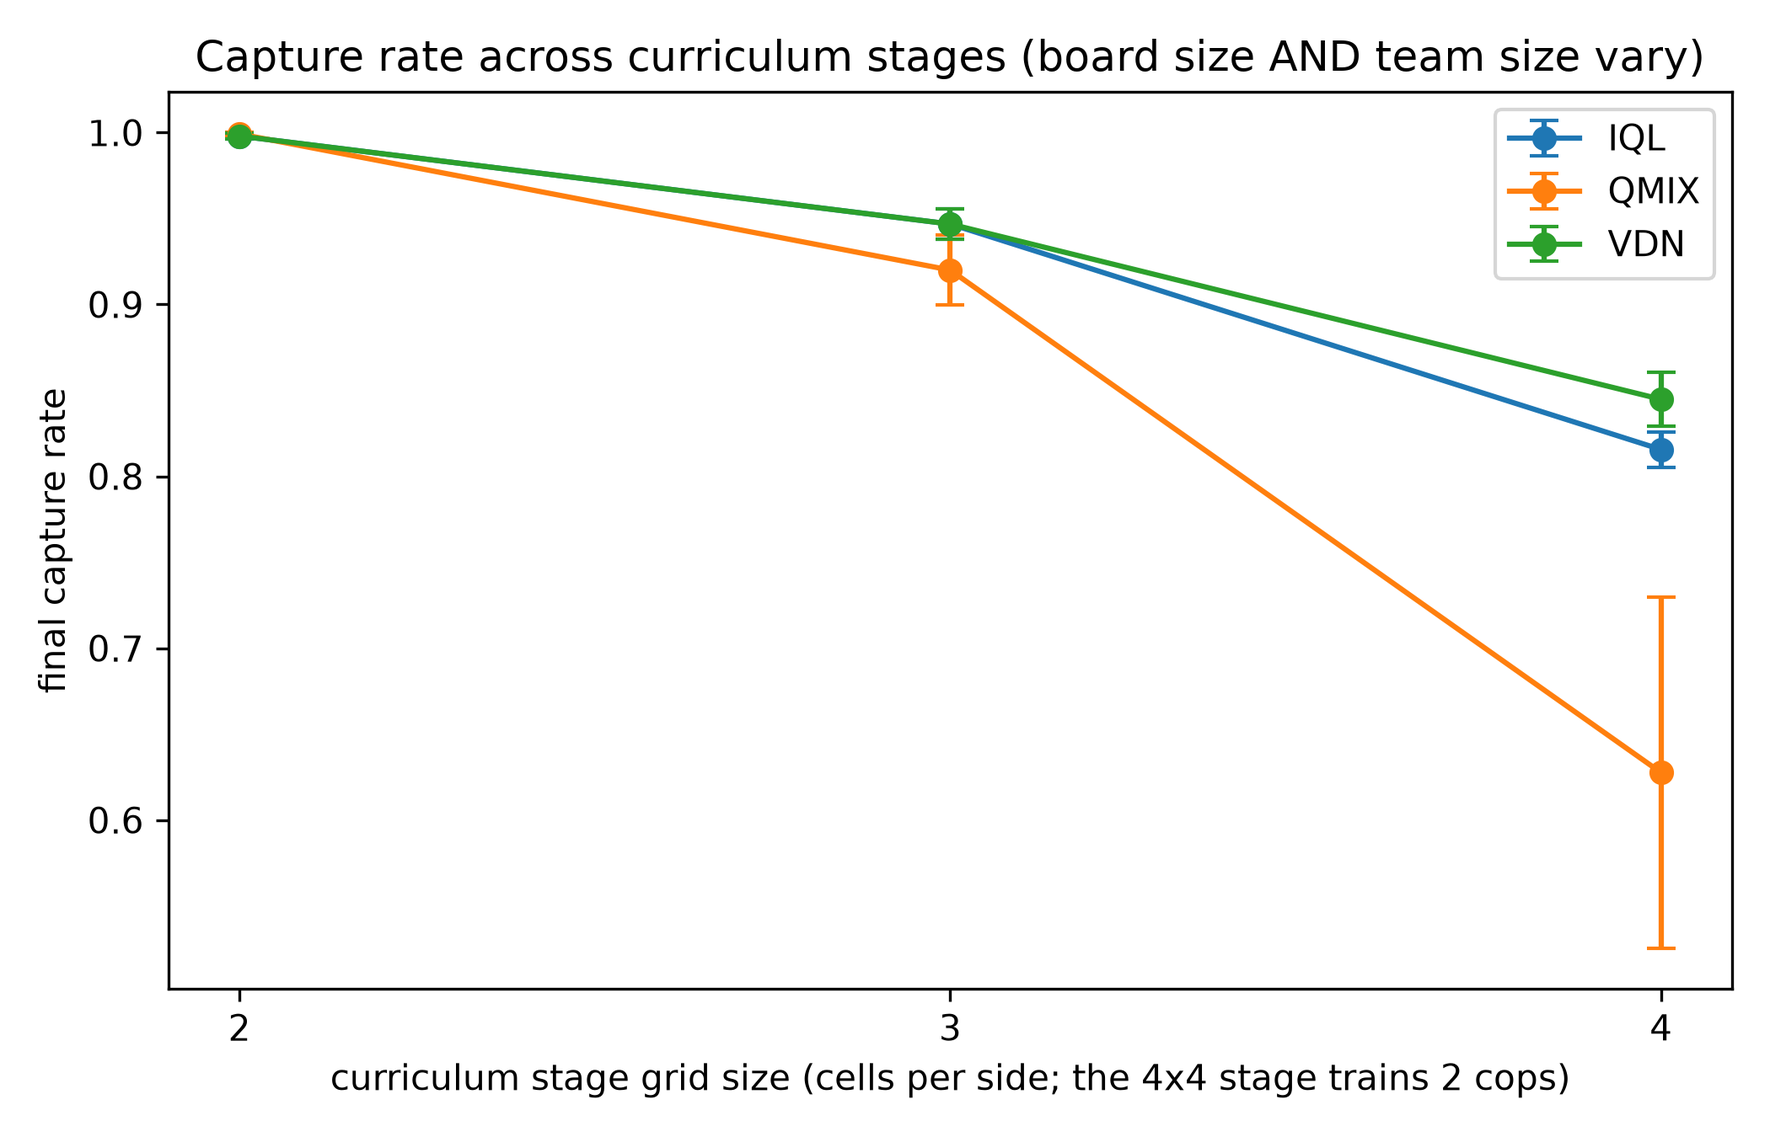
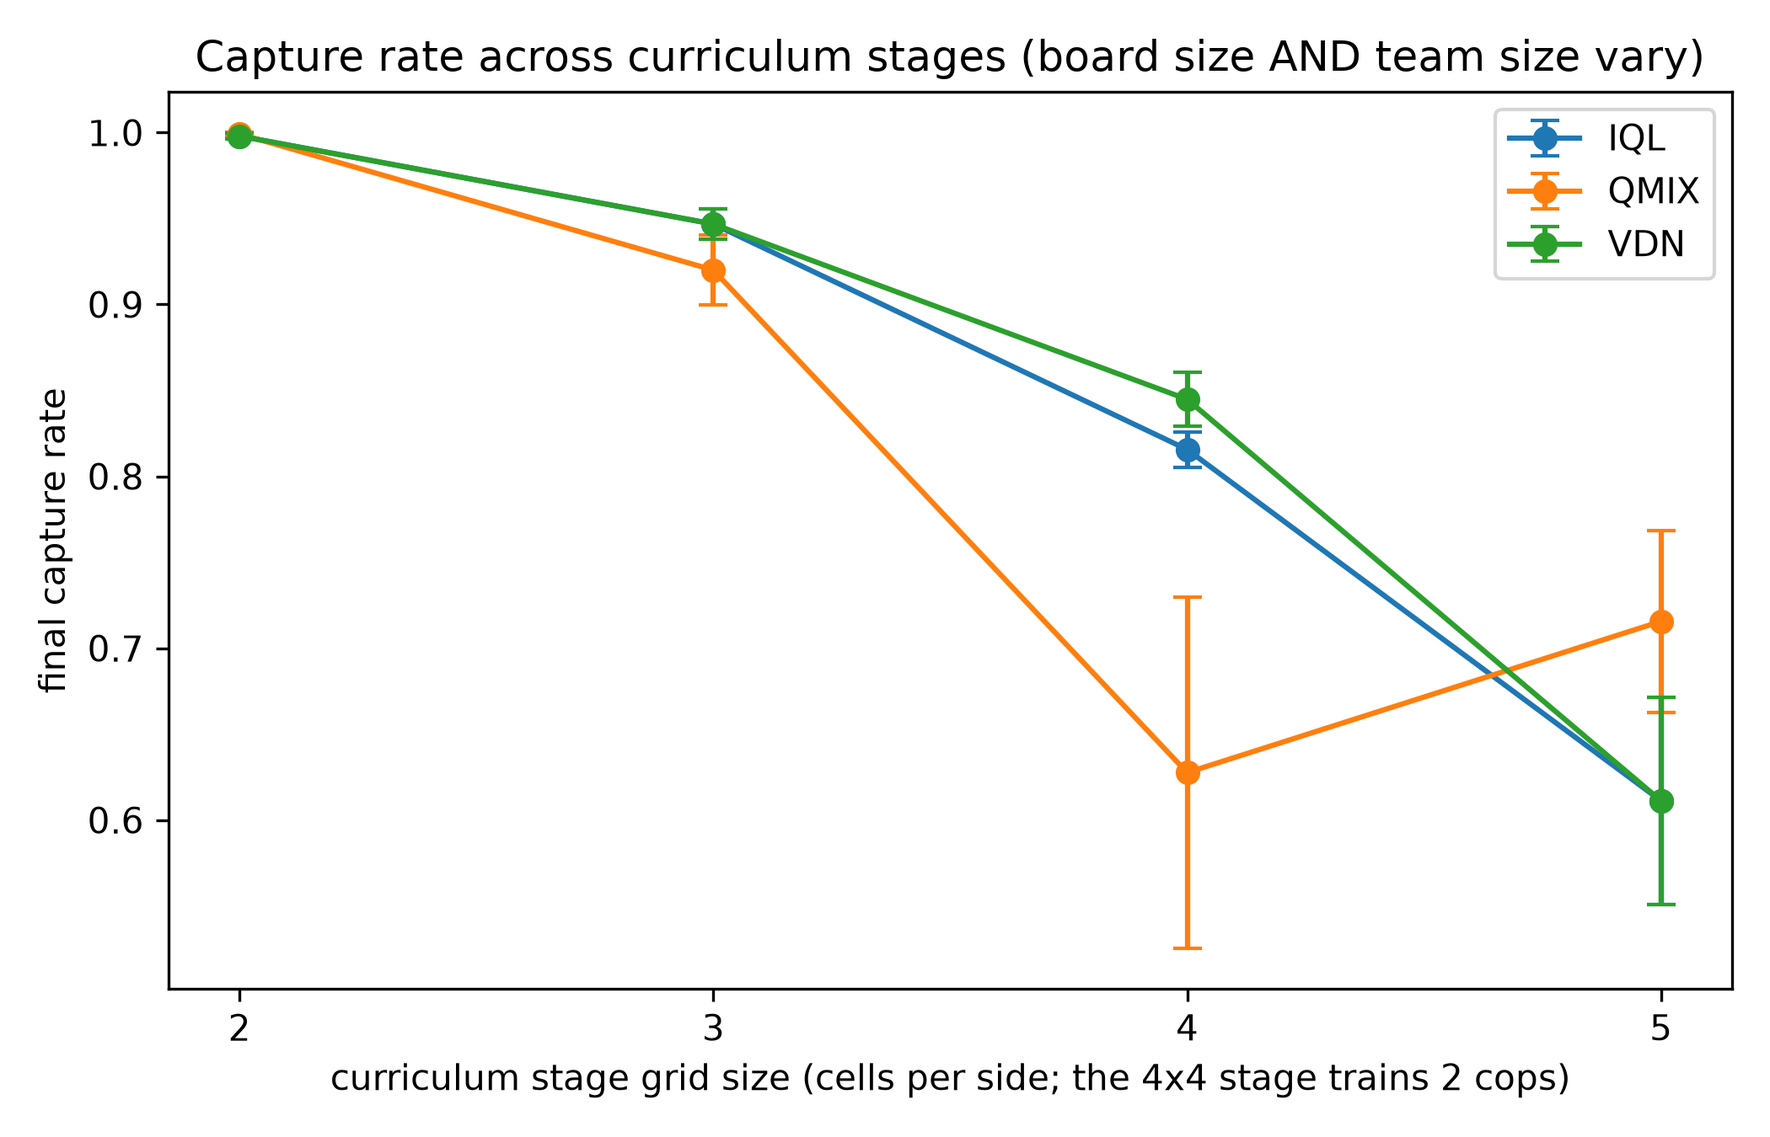
feat(§5.1): 5x5 final-test learning curves — closes the missing-5x5-curves compliance gap
The gpt-5.6-sol compliance lens found (and I confirmed) that the run matrix stopped
at 4×4 — no 5×5 data — while brief §5.1 assigns "final test + Learning Curves" to the
5×5 rung. Ran the full stage-3 (5×5, 1-cop) matrix: 3 algos × 5 seeds × 50 rounds =
15 runs, appended to history.jsonl (now 60 runs across all 4 stages, no NaN).

Figure wiring — two focus stages instead of one auto-flip (src/results/_figure_stages.py):
- learning + loss curves (F1/F2) now render at the 5×5 FINAL stage (the brief's ask);
- the 3-way comparison + box (F5/F8) stay at the 4×4 TWO-COP stage, where the algorithms
  actually separate (at 1-cop stages VDN's sum-decomposition IS IQL, so a 3-way there is
  degenerate). make_figures split into make_figures.py + _figure_stages.py for the LOC cap;
  4 new stage-selection tests.

The 5×5 data STRENGTHENS the analysis rather than just filling a box: QMIX is *worst* at
4×4 (0.628, the 2-cop credit-assignment collapse) yet *best* at 5×5 (0.716, no team to
coordinate), while VDN=IQL at 5×5 (0.611, bit-identical at one agent). So QMIX's
instability is provably a MULTI-AGENT effect, not a harder-board effect — the 1-cop 5×5
control clinches it. Updated F9 heatmap (5×5 column), F1/F2 captions, README §7.2 and
the run-matrix refs (45→60 runs, "5×5 excluded" claims removed), ANALYSIS §11, COST.

Gates: 883 passed, 98.72% cov, ruff clean, all files <=150 LOC. Trained artifacts +
sdk.py untouched (a figures/data/docs change only).

diff --git a/src/results/make_figures.py b/src/results/make_figures.py
@@ -13,26 +13,13 @@ from __future__ import annotations
 
 import hashlib
 import json
-from collections import defaultdict
 from pathlib import Path
 
+from src.results._figure_stages import comparison_stage, final_stage, focus_stage
 from src.results.aggregate import final_values_by_seed, load_runs
 from src.results.plots import plot_comparison, plot_scaling, plot_two_agent_panels
 from src.results.plots_extra import plot_capture_heatmap, plot_final_distribution
 from src.utils.config_loader import load_config
-
-
-def _focus_stage(records: list[dict]) -> int:
-    """The LARGEST stage with the most algorithm coverage (robust to a partial run).
-
-    A partial run may have one slow stage reached by only some algorithms; the F5
-    comparison needs a stage where the most arms are present, preferring the largest.
-    """
-    algos_by_stage: dict[int, set] = defaultdict(set)
-    for rec in records:
-        algos_by_stage[rec["stage"]].add(rec["algorithm"])
-    most = max(len(algos) for algos in algos_by_stage.values())
-    return max(stage for stage, algos in algos_by_stage.items() if len(algos) == most)
 
 
 def _manifest(cfg: dict, records: list[dict]) -> dict:
@@ -67,7 +54,7 @@ def _return_curves(cfg: dict, fig_dir: Path) -> list[str]:
         records = _with_returns(load_runs(runs_dir / "history.jsonl"))
     if not records:
         return []
-    stage = _focus_stage(records)
+    stage = focus_stage(records)
     grid = next(rec["grid"] for rec in records if rec["stage"] == stage)
     return [
         str(
@@ -110,14 +97,15 @@ def main(cfg: dict | None = None) -> list[str]:
     records = load_runs(Path(cfg["paths"]["runs_dir"]) / "history.jsonl")
     if not records:
         raise SystemExit("no runs in results/runs/history.jsonl — run scripts/run_results.py first")
-    stage = _focus_stage(records)  # the largest stage with the most algorithm coverage
-    grid = next(rec["grid"] for rec in records if rec["stage"] == stage)
+    final = final_stage(records)  # §5.1 5x5 'final test' → the F1/F2 learning + loss curves
+    cmp_stage = comparison_stage(cfg, records)  # the multi-cop stage where algos separate (F5/F8)
+    fgrid = next(rec["grid"] for rec in records if rec["stage"] == final)
     saved = [
         str(
             plot_two_agent_panels(  # §7.3a: BOTH agents' learning (cop capture / thief escape)
                 records,
                 "capture_rate",
-                stage,
+                final,
                 [
                     ("cop", "Cop learning — capture rate (cop-training rounds)", "capture rate", None),
                     (
@@ -127,7 +115,7 @@ def main(cfg: dict | None = None) -> list[str]:
                         lambda m: 1.0 - m,
                     ),
                 ],
-                f"Both agents' learning at {grid}x{grid} (mean±SE over seeds)",
+                f"Both agents' learning at {fgrid}x{fgrid} — §5.1 final test (mean±SE over seeds)",
                 fig_dir / "learning_curves.png",
             )
         ),
@@ -135,19 +123,19 @@ def main(cfg: dict | None = None) -> list[str]:
             plot_two_agent_panels(  # §7.3b: the two NETS' losses (pooling would interleave them)
                 records,
                 "loss",
-                stage,
+                final,
                 [
                     ("cop", "Cop net TD-loss (QMIX/VDN/IQL)", "TD loss", None),
                     ("thief", "Thief Double-DQN TD-loss", "TD loss", None),
                 ],
-                f"Per-network training loss at {grid}x{grid} (mean±SE over seeds)",
+                f"Per-network training loss at {fgrid}x{fgrid} — §5.1 final test (mean±SE over seeds)",
                 fig_dir / "loss_curves.png",
             )
         ),
-        str(plot_comparison(records, "capture_rate", stage, fig_dir / "baseline_comparison.png")),
+        str(plot_comparison(records, "capture_rate", cmp_stage, fig_dir / "baseline_comparison.png")),
         str(plot_scaling(records, "capture_rate", fig_dir / "scaling.png")),
     ]
-    saved += _variety_figures(records, stage, fig_dir)  # V3 §9.3: BOX + HEATMAP families
+    saved += _variety_figures(records, cmp_stage, fig_dir)  # V3 §9.3: BOX + HEATMAP (2-cop focus)
     saved += _return_curves(cfg, fig_dir)
     manifest_path = Path(cfg["paths"]["experiment_manifest"])  # config-driven (no hardcoded path)
     manifest_path.parent.mkdir(parents=True, exist_ok=True)

diff --git a/src/results/_figure_stages.py b/src/results/_figure_stages.py
@@ -1,0 +1,38 @@
+"""Stage-selection helpers for :mod:`src.results.make_figures` (kept separate for the LOC cap).
+
+Three focus notions the figure set needs: the largest well-covered stage (``focus``, F1b/
+heatmap), the largest stage present (``final`` = the §5.1 5x5 final test, F1/F2 learning +
+loss curves), and the largest MULTI-cop stage (``comparison`` = the 4x4 2-cop rung where the
+algorithms actually separate, F5/F8 — at 1-cop stages VDN's sum-decomposition reduces to IQL).
+"""
+
+from __future__ import annotations
+
+from collections import defaultdict
+
+
+def focus_stage(records: list[dict]) -> int:
+    """The LARGEST stage with the most algorithm coverage (robust to a partial run)."""
+    algos_by_stage: dict[int, set] = defaultdict(set)
+    for rec in records:
+        algos_by_stage[rec["stage"]].add(rec["algorithm"])
+    most = max(len(algos) for algos in algos_by_stage.values())
+    return max(stage for stage, algos in algos_by_stage.items() if len(algos) == most)
+
+
+def final_stage(records: list[dict]) -> int:
+    """The LARGEST curriculum stage present — the brief §5.1 5x5 'final test' for F1/F2."""
+    return max(rec["stage"] for rec in records)
+
+
+def comparison_stage(cfg: dict, records: list[dict]) -> int:
+    """The 3-way F5/F8 comparison stage: the largest MULTI-cop stage present, else focus.
+
+    At 1-cop stages VDN's sum-decomposition reduces exactly to IQL, so a 3-way comparison
+    there is degenerate; the genuinely multi-agent stage (``num_cops>1``, the 4x4 rung) is
+    where the algorithms separate.
+    """
+    by_stage = cfg["env"]["curriculum"]["num_cops_by_stage"]
+    present = {rec["stage"] for rec in records}
+    multi = [s for s in present if s < len(by_stage) and int(by_stage[s]) > 1]
+    return max(multi) if multi else focus_stage(records)

diff --git a/tests/integration/test_make_figures.py b/tests/integration/test_make_figures.py
@@ -7,13 +7,31 @@ from pathlib import Path
 
 import pytest
 
-from src.results.make_figures import _focus_stage, main
+from src.results._figure_stages import comparison_stage, final_stage, focus_stage
+from src.results.make_figures import main
 
 
 def test_focus_stage_prefers_most_covered_then_largest():
     records = [{"algorithm": a, "stage": 2, "seed": 7} for a in ("qmix", "vdn", "iql")]
     records += [{"algorithm": "qmix", "stage": 3, "seed": 7}]  # only qmix reached the slow stage
-    assert _focus_stage(records) == 2  # stage 2 (3 arms) beats stage 3 (1 arm)
+    assert focus_stage(records) == 2  # stage 2 (3 arms) beats stage 3 (1 arm)
+
+
+def test_final_stage_is_the_largest_present():
+    records = [{"algorithm": "qmix", "stage": s, "seed": 7} for s in (0, 1, 2, 3)]
+    assert final_stage(records) == 3  # §5.1 5x5 final test
+
+
+def test_comparison_stage_is_the_largest_multi_cop_stage():
+    cfg = {"env": {"curriculum": {"num_cops_by_stage": [1, 1, 2, 1]}}}
+    records = [{"algorithm": "qmix", "stage": s, "seed": 7} for s in (0, 1, 2, 3)]
+    assert comparison_stage(cfg, records) == 2  # 4x4 (2 cops), NOT the degenerate 1-cop 5x5
+
+
+def test_comparison_stage_falls_back_to_focus_when_no_multi_cop_stage():
+    cfg = {"env": {"curriculum": {"num_cops_by_stage": [1, 1, 1, 1]}}}
+    records = [{"algorithm": a, "stage": 1, "seed": 7} for a in ("qmix", "vdn", "iql")]
+    assert comparison_stage(cfg, records) == 1  # no 2-cop stage -> focus_stage
 
 
 def _write_runs(path: Path, with_returns: bool = False) -> None:

diff --git a/README.md b/README.md
@@ -142,8 +142,8 @@ Reported plainly — the brief grades honest analysis over a polished narrative:
   the adversary into `T` (§7.1); the true game is general-sum (§2.1). A faithful treatment would
   train both roles as a POSG (true adversarial RL), not a cooperative-team proxy.
 - **The genuine multi-agent signal is the 4×4 2-cop stage**; the graded 5×5 is 1-cop, where the
-  QMIX mixer is a trivial scalar gain (§7.2 caveat). 5×5 is excluded from the figure matrix for
-  compute (training too slow to sweep all arms).
+  QMIX mixer is a trivial scalar gain (§7.2 caveat). 5×5 is where VDN's sum-decomposition reduces
+  exactly to IQL, so those two arms are bit-identical at the 1-cop final stage.
 - **OLoRA is a stability/efficiency aid, not the non-stationarity cure** (§7.2, `[7]`); the OLoRA-vs-
   full-fine-tune **ablation chart/table was descoped** (a PRD-designated stretch item) — the ~8×
   trainable-param reduction it would visualize is still asserted by `tests/unit/test_olora_linear.py`.
@@ -202,12 +202,17 @@ the joint max over the centrally-mixed value removes the marginalization. CTDE t
 γ / target cadence **and the configured 256-episode replay warmup**; only the mixer (or the IQL
 branch) differs (5 seeds, mean±SE). The expressive QMIX mixer is the **least stable at this budget**.
 At 3×3 all three converge close (IQL = VDN = **0.95**, QMIX **0.92**); but at the harder **4×4
-two-cop** stage QMIX's monotonic hypernetwork **destabilizes** — its F1 curve oscillates and settles at
-**0.63 ± 0.10**, *below* the simpler **VDN (0.84, the highest mean)** and **IQL (0.82, the tightest
-cross-seed spread)**. This is the studied non-convergence phenomenon (risk R1) and a well-known MARL result:
-QMIX is strictly **more expressive** than VDN/IQL but **harder to train**, so at a bounded 50-round
-budget the simpler decompositions win. Honoring the replay warmup (the audit fix) confirmed this is a
-genuine QMIX training-stability effect, **not** an early-buffer artifact. CTDE improves the
+two-cop** stage QMIX's monotonic hypernetwork **destabilizes** — the F5/F8 4×4 comparison shows it
+oscillating and settling at **0.63 ± 0.10**, *below* the simpler **VDN (0.84, the highest mean)** and
+**IQL (0.82, the tightest cross-seed spread)**. This is the studied non-convergence phenomenon (risk R1)
+and a well-known MARL result: QMIX is strictly **more expressive** than VDN/IQL but **harder to train**,
+so at a bounded 50-round budget the simpler decompositions win. Honoring the replay warmup (the audit
+fix) confirmed this is a genuine QMIX training-stability effect, **not** an early-buffer artifact.
+**The instability is specifically MULTI-AGENT.** At the **5×5 one-cop final test** (F1, §5.1) the
+credit-assignment pressure is gone and QMIX *recovers to the best* arm (**0.72 ± 0.05**), while VDN and
+IQL are bit-identical there (**0.61 ± 0.06** — at one agent VDN's sum-decomposition IS IQL). So the 4×4
+collapse is a two-cop credit-assignment effect, not a property of the mixer per se — exactly what the
+1-cop vs 2-cop contrast isolates. CTDE improves the
 **stability of the target**, not the sample-efficiency of the richer value class — reported faithfully,
 not cherry-picked.
 
@@ -246,28 +251,29 @@ bounds what it can disclose. Limitation analysis (§6) and these controls togeth
 ### 7.3 Results — the controlled experiment + figures
 
 **Single controlled experiment** (D10 §C): identical nets / replay / ε-decay / γ / target cadence —
-only the mixer (or the IQL branch) differs. **45 runs** = all three arms **IQL / VDN / QMIX** ×
-seeds **`[7, 17, 37, 71, 107]`** × stages **`[2×2, 3×3, 4×4]`**, every run honoring the 256-episode
+only the mixer (or the IQL branch) differs. **60 runs** = all three arms **IQL / VDN / QMIX** ×
+seeds **`[7, 17, 37, 71, 107]`** × stages **`[2×2, 3×3, 4×4, 5×5]`**, every run honoring the 256-episode
 replay warmup. The **4×4 two-cop stage is the comparison focus** (genuine multi-agent credit
-assignment). 5×5 is excluded from the matrix (training too slow to sweep all arms at that size).
+assignment). The full 2×2→5×5 curriculum is swept (the 5×5 rung is the brief §5.1 final test).
 Per-round records append to `results/runs/history.jsonl`; `results/figures/experiment_manifest.json`
-pins arms / seeds / stages + a config hash (= 45 runs, zero README↔code drift, R8).
+pins arms / seeds / stages + a config hash (= 60 runs across 4 stages, zero README↔code drift, R8).
 
 ![F1 learning curves](results/figures/learning_curves.png)
-*F1 — §7.3a BOTH agents' learning at the 4×4 two-cop focus stage (cross-seed mean±SE; capture rate is
+*F1 — §7.3a BOTH agents' learning at the **5×5 one-cop final test** (brief §5.1; cross-seed mean±SE; capture rate is
 the reward proxy — the terminal signal dominates and shaping is train-only). The cop panel STARTS high
 (the cop's greedy policy starts strong against an untrained thief) and capture then falls as the self-play thief improves —
 the right panel shows the thief's escape rate climbing in mirror: §7.2's non-stationarity made visible.
-QMIX's wider band is the monotonic-mixer training instability (R1). Train reads global `s`, exec local `o_i`.*
+At this 5×5 one-cop final test QMIX is in fact the tightest+highest arm (0.72±0.05) with VDN=IQL (0.61±0.06); the monotonic-mixer instability (R1) is the 4×4 two-cop story (F5/F8), not this one. Train reads global `s`, exec local `o_i`.*
 
 ![F1b cumulative return](results/figures/return_curves.png)
 *F1b — **§7.3(a) literal**: BOTH agents' **cumulative episodic return** (the measured reward
 sum per episode, mean±SE over 5 seeds) vs self-play round at 4×4. This is the reward-convergence
-plot the brief names; F1 above is the same story in capture/escape rate. Note the coupling: the
+plot the brief names, at the 4×4 two-cop focus (where the arms separate; F1 above is the
+5×5 final test). Note the coupling: the
 IQL/VDN cop return climbs toward ≈+1.0 while its thief counterpart is pushed negative, whereas the
 QMIX cop return sits **below zero** — the same monotonic-mixer instability §6 reports, now visible
 in reward units. Source: `results/runs/returns_history.jsonl` (the return fields post-date the
-headline 45-run matrix, so they are logged separately at the 4×4 focus stage).*
+headline 60-run matrix, so they are logged separately at the 4×4 two-cop focus stage).*
 
 ![F5 baseline comparison](results/figures/baseline_comparison.png)
 *F5 — final capture rate IQL vs VDN vs QMIX at 4×4 (SE whiskers; "final" = mean over each seed's
@@ -393,13 +399,13 @@ overlay state (`state_view_radius.png`) is referenced from [`docs/UX.md`](docs/U
 
 End-to-end evidence: [`results/subgames/full_match_5x5.redacted.json`](results/subgames/full_match_5x5.redacted.json)
 is a full 6-sub-game §3.5 report (role-only, PII-redacted) produced by `sdk.run_local_match` with FRESH
-nets — schema/pipeline proof (trained performance lives in the 45-run matrix behind F1/F5/F6). The SDK-only analysis
+nets — schema/pipeline proof (trained performance lives in the 60-run matrix behind F1/F5/F6). The SDK-only analysis
 notebook — LaTeX equations, the six plotted figures, citations, committed **executed** — is
 [`notebooks/analysis.ipynb`](notebooks/analysis.ipynb). The figure manifest:
 
 | Fig | Content | Generator | Path |
 |---|---|---|---|
-| **F1** | BOTH agents' learning at 4×4 (§7.3a): cop capture-rate panel + thief escape-rate panel, cross-seed mean±SE | `python -m src.results.make_figures` (plots `results/runs/*.jsonl`) | `results/figures/learning_curves.png` |
+| **F1** | BOTH agents' learning at 5×5 — §5.1 final test (§7.3a): cop capture-rate panel + thief escape-rate panel, cross-seed mean±SE | `python -m src.results.make_figures` (plots `results/runs/*.jsonl`) | `results/figures/learning_curves.png` |
 | **F1b** | BOTH agents' CUMULATIVE EPISODIC RETURN at 4×4 (§7.3a literal reward-convergence plot) | `python -m src.results.make_figures` (reads `returns_history.jsonl`) | `results/figures/return_curves.png` |
 | **F2** | Per-NETWORK TD-loss at 4×4 (§7.3b): cop net (QMIX/VDN/IQL) panel + thief Double-DQN panel | `python -m src.results.make_figures` | `results/figures/loss_curves.png` |
 | **F3** | GUI screenshots at 2×2/3×3/4×4/5×5 + the terminal / barrier / view-radius states (CAPTURED, not plotted) | `scripts/capture_screens.py` (headless) | `results/screenshots/grid_{2,3,4,5}x{n}.png`, `state_{terminal,barriers,view_radius}.png` |

diff --git a/docs/ANALYSIS.md b/docs/ANALYSIS.md
@@ -209,21 +209,25 @@ before trusting its mean", not "QMIX is bad".
 
 ### F9 — mean final capture rate, algorithm × curriculum stage
 
-| Algorithm | stage 0 (2×2, 1 cop) | stage 1 (3×3, 1 cop) | stage 2 (4×4, **2 cops**) |
-|---|---|---|---|
-| IQL  | 0.998 | 0.947 | 0.816 |
-| VDN  | 0.998 | 0.947 | 0.845 |
-| QMIX | 0.999 | 0.920 | 0.628 |
+| Algorithm | stage 0 (2×2, 1 cop) | stage 1 (3×3, 1 cop) | stage 2 (4×4, **2 cops**) | stage 3 (5×5, 1 cop) |
+|---|---|---|---|---|
+| IQL  | 0.998 | 0.947 | 0.816 | 0.611 |
+| VDN  | 0.998 | 0.947 | 0.845 | 0.611 |
+| QMIX | 0.999 | 0.920 | 0.628 | **0.716** |
 
 **Finding — the arms only separate where the task is genuinely multi-agent.** The IQL and VDN rows
-are **identical** at stages 0 and 1 (0.998 / 0.9468 to four decimals), and that is a correctness
-signal rather than a coincidence: `env.curriculum.num_cops_by_stage = [1, 1, 2, 1]`, so those rungs
-train a **single** cop, and VDN's sum-decomposition `Q_tot = Σ_i Q_i` over one agent reduces exactly
-to IQL. Only stage 2 — the 2-cop team — creates a credit-assignment problem for a mixer to solve or
-botch, and only there do the three arms spread (0.816 / 0.845 / 0.628). This is the empirical
+are **identical** at every **1-cop** stage (0, 1, and the 5×5 stage 3: 0.998 / 0.9468 / 0.611), and
+that is a correctness signal rather than a coincidence: `env.curriculum.num_cops_by_stage = [1, 1, 2, 1]`,
+so those rungs train a **single** cop, and VDN's sum-decomposition `Q_tot = Σ_i Q_i` over one agent
+reduces exactly to IQL. Only stage 2 — the 2-cop team — creates a credit-assignment problem for a mixer
+to solve or botch, and only there do the three arms spread (0.816 / 0.845 / 0.628). This is the empirical
 justification for PRD K1's choice of the 4×4 two-cop stage as the comparison focus instead of the
-degenerate 1-cop rungs (§7.2 L4). Read left→right, every row also decays with board size + tighter
-view radius — the same partial-observability cost F6 plots, here shown per-arm.
+degenerate 1-cop rungs (§7.2 L4). **The 5×5 column (brief §5.1 final test) is the control that clinches
+it:** QMIX is *worst* at 4×4 (0.628, the 2-cop credit-assignment collapse) yet *best* at 5×5 (**0.716**,
+where there is no team to coordinate) — so QMIX's instability is a multi-agent effect, not a property of
+the harder board. Read left→right, every row also decays with board size + tighter view radius (the same
+partial-observability cost F6 plots) — except QMIX's 4×4→5×5 rise, which is exactly the 2-cop→1-cop drop
+in coordination burden.
 
 > Reproduce: `uv run python -m src.results.make_figures` (builders:
 > `src/results/plots_extra.py::plot_final_distribution` / `plot_capture_heatmap`); the per-seed

diff --git a/docs/COST_ANALYSIS.md b/docs/COST_ANALYSIS.md
@@ -29,7 +29,7 @@ config-pinned: `selfplay.rounds (50) × selfplay.episodes_per_round (100) = 5000
 | Curriculum stages | 4 (2×2 → 3×3 → 4×4 → 5×5) |
 | Algorithm arms | 3 (QMIX, VDN, IQL) |
 | Seeds | 5 (7, 17, 37, 71, 107) |
-| Full compute envelope (4 stages) | 3 × 5 × 4 = 60 runs (the rendered **figure matrix** is 45 — 5×5 excluded) |
+| Full compute envelope (4 stages) | 3 × 5 × 4 = 60 runs (all four stages rendered, incl. the 5×5 §5.1 final test) |
 | Measured rate (2×2) | ~1.8 s/round → ~1.5 min per 50-round run |
 
 Wall-clock scales with episode length (larger grids → more steps/episode), so the 5×5 stage
